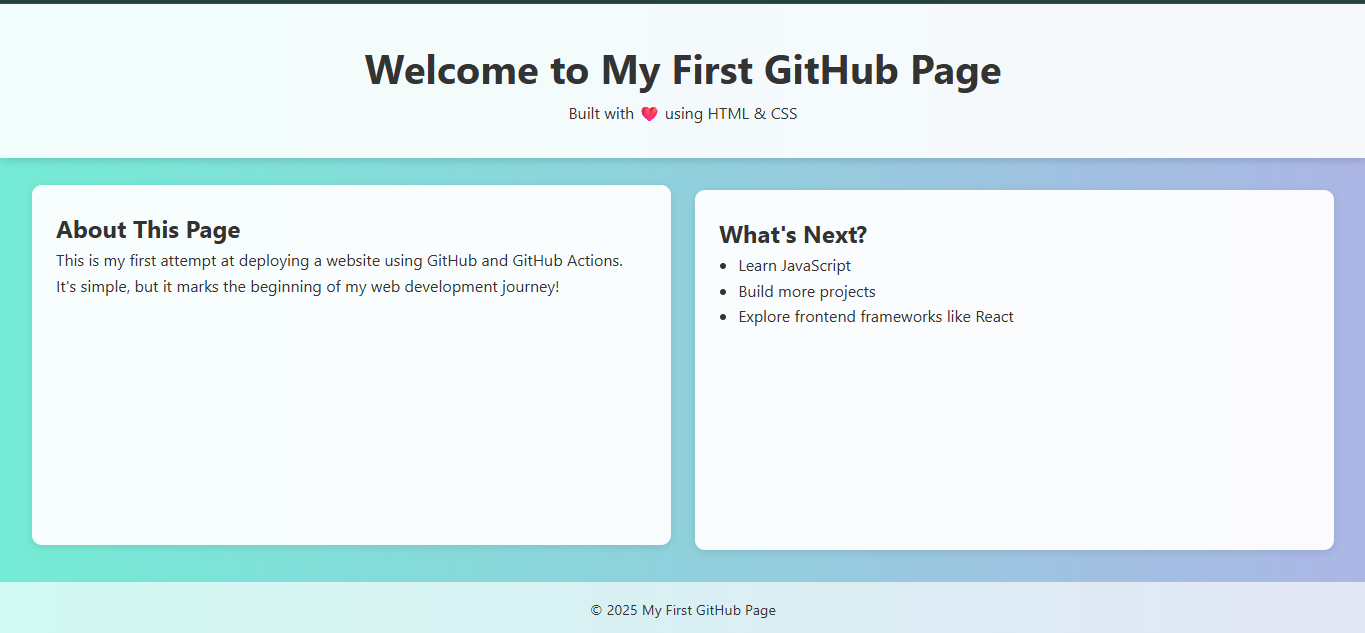
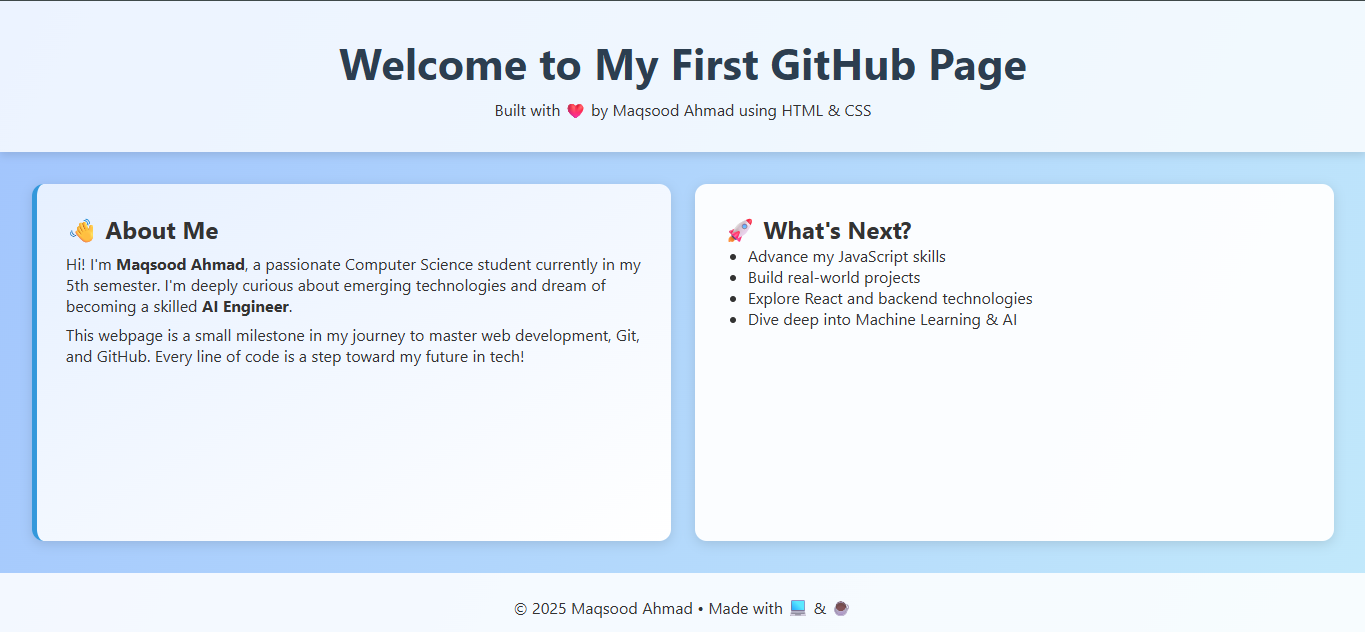
Giving New look

Changed region(s): [[0.0, 0.2405, 1.0, 1.0], [0.2462, 0.0601, 0.7692, 0.2104], [0.0, 0.0, 1.0, 0.0301]]

diff --git a/index.html b/index.html
@@ -4,36 +4,43 @@
     <meta charset="UTF-8" />
     <meta name="viewport" content="width=device-width, initial-scale=1.0" />
     <title>My First GitHub Page</title>
-    <link rel="stylesheet" href="style.css" type="text/css" />
+    <link rel="stylesheet" href="style.css" />
   </head>
   <body>
     <header>
       <h1>Welcome to My First GitHub Page</h1>
-      <p>Built with ❤ using HTML & CSS</p>
+      <p>Built with ❤ by Maqsood Ahmad using HTML & CSS</p>
     </header>
 
     <main>
-      <section class="card">
-        <h2>About This Page</h2>
+      <section class="card about">
+        <h2>👋 About Me</h2>
         <p>
-          This is my first attempt at deploying a website using GitHub and
-          GitHub Actions. It's simple, but it marks the beginning of my web
-          development journey!
+          Hi! I'm <strong>Maqsood Ahmad</strong>, a passionate Computer Science
+          student currently in my 5th semester. I'm deeply curious about
+          emerging technologies and dream of becoming a skilled
+          <strong>AI Engineer</strong>.
+        </p>
+        <p>
+          This webpage is a small milestone in my journey to master web
+          development, Git, and GitHub. Every line of code is a step toward my
+          future in tech!
         </p>
       </section>
 
       <section class="card">
-        <h2>What's Next?</h2>
+        <h2>🚀 What's Next?</h2>
         <ul>
-          <li>Learn JavaScript</li>
-          <li>Build more projects</li>
-          <li>Explore frontend frameworks like React</li>
+          <li>Advance my JavaScript skills</li>
+          <li>Build real-world projects</li>
+          <li>Explore React and backend technologies</li>
+          <li>Dive deep into Machine Learning & AI</li>
         </ul>
       </section>
     </main>
 
     <footer>
-      <p>© 2025 My First GitHub Page</p>
+      <p>© 2025 Maqsood Ahmad • Made with 💻 & ☕</p>
     </footer>
   </body>
 </html>

diff --git a/style.css b/style.css
@@ -6,26 +6,29 @@
 
 body {
   font-family: "Segoe UI", Tahoma, Geneva, Verdana, sans-serif;
-  background: linear-gradient(to right, #74ebd5, #acb6e5);
+  background: linear-gradient(120deg, #a1c4fd, #c2e9fb);
   color: #333;
-  line-height: 1.6;
   min-height: 100vh;
   display: flex;
   flex-direction: column;
-  justify-content: space-between;
 }
 
 header {
-  background-color: rgba(255, 255, 255, 0.9);
+  background-color: #ffffffcc;
   text-align: center;
   padding: 2rem 1rem;
-  box-shadow: 0 4px 6px rgba(0, 0, 0, 0.1);
-  animation: fadeIn 1.5s ease-in-out;
+  box-shadow: 0 4px 8px rgba(0, 0, 0, 0.1);
+  animation: fadeIn 1.5s ease;
 }
 
 h1 {
-  font-size: 2.5rem;
-  color: #333;
+  font-size: 2.7rem;
+  color: #2c3e50;
+}
+
+p {
+  margin-top: 0.5rem;
+  font-size: 1rem;
 }
 
 main {
@@ -37,25 +40,31 @@ main {
 }
 
 .card {
-  background-color: rgba(255, 255, 255, 0.95);
-  border-radius: 10px;
-  padding: 1.5rem;
-  box-shadow: 0 2px 8px rgba(0, 0, 0, 0.1);
+  background: rgba(255, 255, 255, 0.95);
+  padding: 1.8rem;
+  border-radius: 12px;
+  box-shadow: 0 3px 12px rgba(0, 0, 0, 0.12);
   transition: transform 0.3s ease;
 }
 
 .card:hover {
-  transform: translateY(-5px);
+  transform: translateY(-6px);
+}
+
+.about {
+  background: linear-gradient(to top left, #ffffff, #e6f0ff);
+  border-left: 5px solid #3498db;
 }
 
 ul {
-  padding-left: 1.2rem;
+  list-style: disc;
+  padding-left: 1.5rem;
 }
 
 footer {
   text-align: center;
   padding: 1rem;
-  background-color: #ffffffaa;
+  background-color: #ffffffdd;
   font-size: 0.9rem;
 }
 
@@ -63,7 +72,7 @@ footer {
 @keyframes fadeIn {
   from {
     opacity: 0;
-    transform: translateY(-20px);
+    transform: translateY(-15px);
   }
   to {
     opacity: 1;

diff --git a/README.md b/README.md
@@ -1,14 +1,15 @@
 # 🌐 My First GitHub Webpage
 
 Welcome to **My First GitHub Webpage**!  
-This is a creative and responsive static site built with HTML and CSS — deployed using **GitHub Pages**. It marks the beginning of my journey into web development, Git, and GitHub Actions 🚀
+This is a creative and responsive static site built with HTML and CSS — deployed using **GitHub Pages**. It marks the beginning of my journey into **web development, Git, GitHub, and open-source collaboration** 🚀
 
 ---
 
 ## ✨ Features
 
 - 🌈 Modern, responsive design
-- 🎨 Stylish layout with animations and gradient backgrounds
+- 🎨 Stylish layout with hover animations and gradient backgrounds
+- 👤 Personal “About Me” section
 - 💡 Simple structure: `index.html` and `style.css`
 - 🚀 Deployed using GitHub Pages
 
@@ -26,15 +27,15 @@ my-first-github-webpage/<br>
 ## 🚀 Deployment
 
 This site is deployed using **GitHub Pages**.  
-To view the live site, visit:  
+To view the live version of the site, visit:  
 🔗 **[https://maqsoodkhan840.github.io/my-first-github-webpage/](https://maqsoodkhan840.github.io/my-first-github-webpage/)**
 
 To deploy your own version:
 
 1. Push this repo to your GitHub account.
-2. Go to **Settings > Pages**.
-3. Under **Source**, select the branch (e.g., `main`) and folder (`/root` or `/docs` if moved).
-4. Save and wait for GitHub to publish your site.
+2. Navigate to **Settings > Pages**.
+3. Under **Source**, select the branch (e.g., `main`) and folder (`/root` if files are in the root).
+4. Save and GitHub will automatically publish your site.
 
 ---
 
@@ -49,20 +50,25 @@ To deploy your own version:
 ## 📚 Learning Goals
 
 - Practice using Git and GitHub
-- Understand file tracking with `git commands`
-- Deploy a simple webpage using GitHub Pages
+- Understand file tracking with:
+  - `git init`, `git add`, `git commit`, `git status`, `git push`
+- Learn basic project deployment via GitHub Pages
+- Gain confidence in structuring and styling web pages
 
 ---
 
 ## 📸 Preview
 
-**[View Live Preview](https://maqsoodkhan840.github.io/my-first-github-webpage/)**
+🔍 **[Live Preview Here](https://maqsoodkhan840.github.io/my-first-github-webpage/)**
 
-![Webpage Preview](webpage_preview.png)
+![Webpage Preview](webpage_preview.png) <!-- Optional image, replace with actual preview file -->
 
 ---
 
 ## 📬 Contact
 
 Created by **MAQSOOD AHMAD**  
-Feel free to fork this repo, open issues, or connect!
+🎓 5th Semester Computer Science Student  
+💡 Aspiring AI Engineer
+
+> Feel free to fork this repository, contribute ideas, or connect with me on GitHub!
